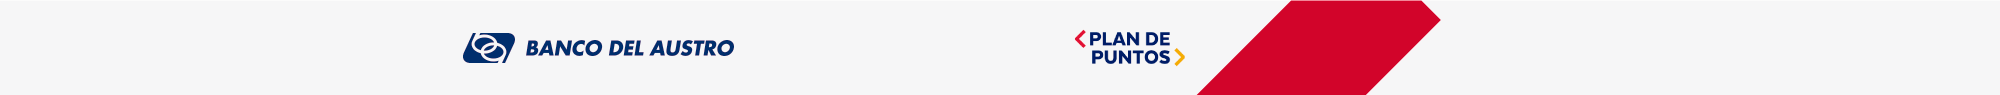
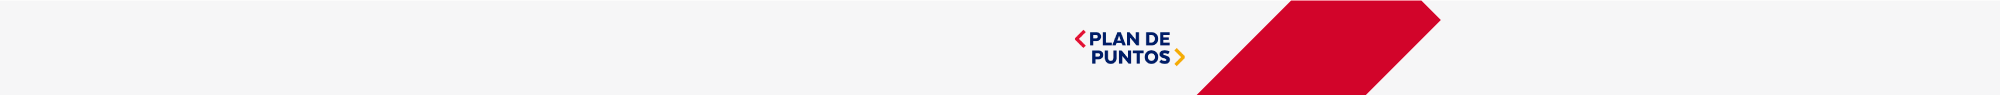
Fixes #3

Changed region(s): [[0.217, 0.3368, 0.372, 0.6737]]

diff --git a/css/style.css b/css/style.css
@@ -455,7 +455,7 @@ body {
 }
 */
 
-.button.style-11{
+.button.style-11 {
 	background: #C8002D;
 	color: #fff;
 	border: 2px solid #C8002D;
@@ -12634,10 +12634,10 @@ option:hover {
 
 .login {
 	background: url(../img/bg/bg-login.png);
-    background-size: 70%;
-    background-position: center right;
-    background-repeat: no-repeat;
-    height: 650px;
+	background-size: 70%;
+	background-position: center right;
+	background-repeat: no-repeat;
+	height: 650px;
 }
 
 .login-box {
@@ -12918,4 +12918,10 @@ span.help-block {
 
 .ftw-600 {
 	font-weight: 600;
+}
+
+.logo-banco {
+	position: relative;
+	right: 515px;
+
 }

diff --git a/index.html b/index.html
@@ -37,7 +37,8 @@
 	<div id="content-block">
 		<!-- HEADER -->
 		<div class="pre-header ">
-			<div class="content-push">
+			<div class="container">
+				<a href="index.html"><img src="img/logo.png" alt="" class="logo-banco"></a>
 				<p class="name-user"><a href="mi_perfil.html">Jhonatan Herrera Montes</a></p>
 			</div>
 		</div>
